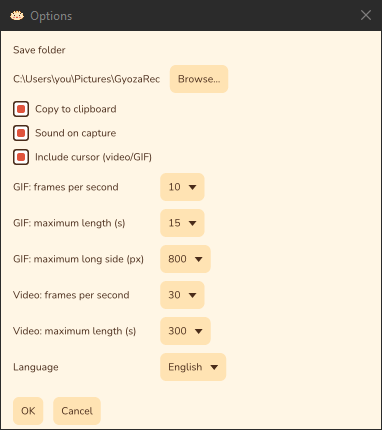
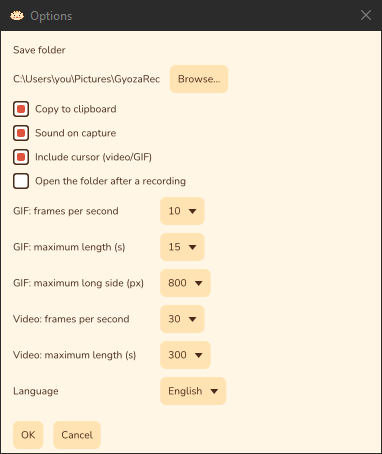
docs: pause button and open-folder option

diff --git a/README.md b/README.md
@@ -22,7 +22,7 @@ A small toolbar:
 - **Area** — Rectangle, Window or Full screen.
 - **Format** — PNG image, MP4 video or Animated GIF. Any area works with any format.
 - **Delay** — from no delay up to 5 seconds.
-- **Options** — save folder, copy to clipboard, sound, cursor in recordings, frame rate and maximum length of GIFs and videos, language.
+- **Options** — save folder, copy to clipboard, sound, cursor in recordings, opening the folder after a recording, frame rate and maximum length of GIFs and videos, language.
 
 <p align="center">
   <img src="docs/screenshots/toolbar.png" alt="The GyozaRec toolbar" valign="top">
@@ -30,7 +30,7 @@ A small toolbar:
   <img src="docs/screenshots/options.png" alt="The Options window" valign="top">
 </p>
 
-Images are copied to the clipboard; videos and GIFs are copied as files. A window recording keeps the area the window covered when recording started. While recording, a small panel shows the elapsed time with **Stop** and **Cancel** buttons. Nothing leaves your computer: no uploads, no accounts.
+Images are copied to the clipboard; videos and GIFs are copied as files. A window recording keeps the area the window covered when recording started. While recording, a small panel shows the elapsed time with **Pause**/**Resume**, **Stop** and **Cancel** buttons; paused time is left out of the file. Nothing leaves your computer: no uploads, no accounts.
 
 Running `gyozarec --capture` starts the selection right away; if the app is already open, the capture starts in the running instance.
 
